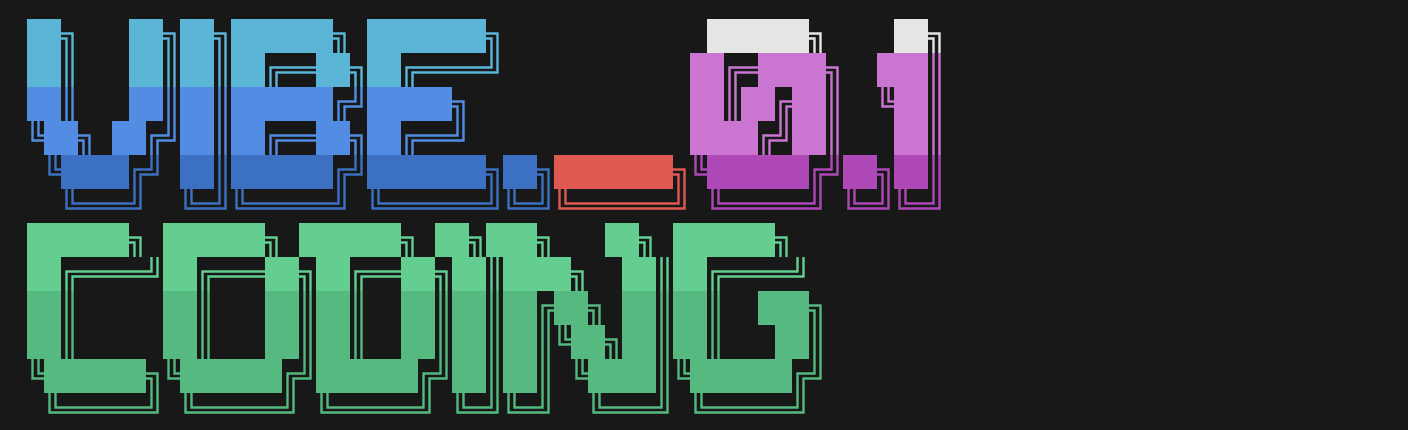
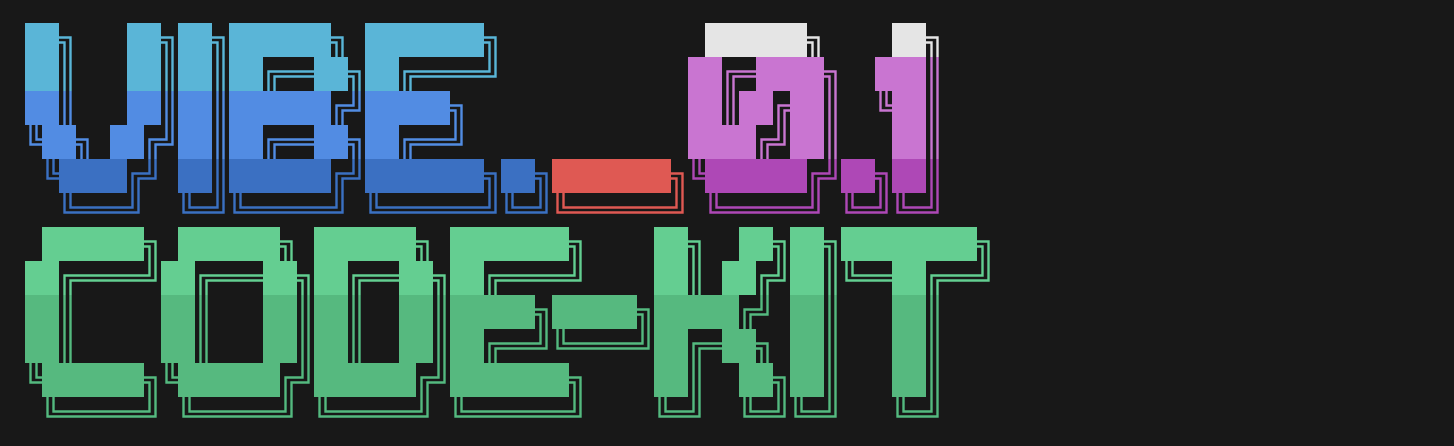
update welcome

Changed region(s): [[0.0, 0.0302, 0.6875, 0.9674]]

diff --git a/vibe_coding_kit/cli/main.py b/vibe_coding_kit/cli/main.py
@@ -39,18 +39,18 @@ def print_welcome_badge() -> None:
     RESET = "\033[0m"
     
     badge = f"""{BRIGHT_CYAN}
-██╗   ██╗██╗██████╗ ███████╗            {WHITE}██████╗    ██╗
-{BRIGHT_CYAN}██║   ██║██║██╔══██╗██╔════╝           {BRIGHT_MAGENTA}██╔═████╗  ███║
-{BRIGHT_BLUE}██║   ██║██║██████╔╝█████╗             {BRIGHT_MAGENTA}██║██╔██║  ╚██║
-{BRIGHT_BLUE}╚██╗ ██╔╝██║██╔══██╗██╔══╝             {BRIGHT_MAGENTA}████╔╝██║   ██║
-{BLUE} ╚████╔╝ ██║██████╔╝███████╗██╗{BRIGHT_RED}███████╗{MAGENTA}╚██████╔╝██╗██║
-{BLUE}  ╚═══╝  ╚═╝╚═════╝ ╚══════╝╚═╝{BRIGHT_RED}╚══════╝{MAGENTA} ╚═════╝ ╚═╝╚═╝
-{BRIGHT_GREEN}██████╗ ██████╗ ██████╗ ██╗███╗   ██╗ ██████╗        
-{BRIGHT_GREEN}██╔════╝██╔═══██╗██╔══██╗██║████╗  ██║██╔════╝        
-{GREEN}██║     ██║   ██║██║  ██║██║██╔██╗ ██║██║  ███╗       
-{GREEN}██║     ██║   ██║██║  ██║██║██║╚██╗██║██║   ██║       
-{GREEN}╚██████╗╚██████╔╝██████╔╝██║██║ ╚████║╚██████╔╝       
-{GREEN} ╚═════╝ ╚═════╝ ╚═════╝ ╚═╝╚═╝  ╚═══╝ ╚═════╝        
+██╗   ██╗██╗██████╗ ███████╗            {WHITE}██████╗    ██╗   
+{BRIGHT_CYAN}██║   ██║██║██╔══██╗██╔════╝           {BRIGHT_MAGENTA}██╔═████╗  ███║   
+{BRIGHT_BLUE}██║   ██║██║██████╔╝█████╗             {BRIGHT_MAGENTA}██║██╔██║  ╚██║   
+{BRIGHT_BLUE}╚██╗ ██╔╝██║██╔══██╗██╔══╝             {BRIGHT_MAGENTA}████╔╝██║   ██║   
+{BLUE} ╚████╔╝ ██║██████╔╝███████╗██╗{BRIGHT_RED}███████╗{MAGENTA}╚██████╔╝██╗██║   
+{BLUE}  ╚═══╝  ╚═╝╚═════╝ ╚══════╝╚═╝{BRIGHT_RED}╚══════╝{MAGENTA} ╚═════╝ ╚═╝╚═╝   
+{BRIGHT_GREEN} ██████╗ ██████╗ ██████╗ ███████╗    ██╗  ██╗██╗████████╗
+{BRIGHT_GREEN}██╔════╝██╔═══██╗██╔══██╗██╔════╝    ██║ ██╔╝██║╚══██╔══╝
+{GREEN}██║     ██║   ██║██║  ██║█████╗█████╗█████╔╝ ██║   ██║   
+{GREEN}██║     ██║   ██║██║  ██║██╔══╝╚════╝██╔═██╗ ██║   ██║   
+{GREEN}╚██████╗╚██████╔╝██████╔╝███████╗    ██║  ██╗██║   ██║   
+{GREEN} ╚═════╝ ╚═════╝ ╚═════╝ ╚══════╝    ╚═╝  ╚═╝╚═╝   ╚═╝   
 {RESET}"""
     print(badge)
 
